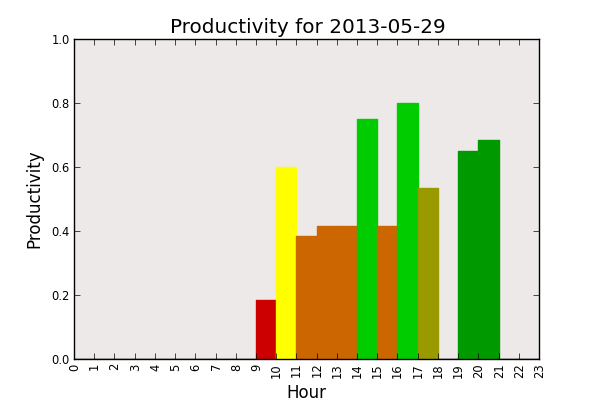
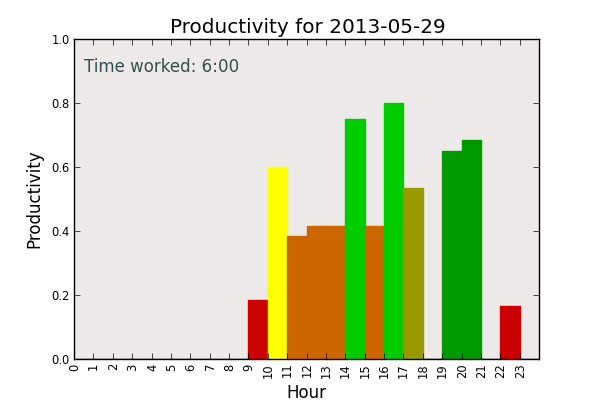
Added the total time worked as an annotation to the chart.

Changed region(s): [[0.18, 0.24, 0.9, 0.96], [0.12, 0.15, 0.42, 0.18]]

diff --git a/pomodoro_daily_chart.py b/pomodoro_daily_chart.py
@@ -59,6 +59,8 @@ colours_to_use = [
     '#33FF33',
 ]
 
+ttl_mins_worked = 0
+
 start_date = datetime.date.today()
 start_date_str = ("%d-%02d-%02d" % (start_date.year, start_date.month, start_date.day, ))
 p = subprocess.Popen([callistevents_prog, '-c', 'Pomodoros', '-s', start_date_str ], stdout=subprocess.PIPE, stderr=subprocess.PIPE)
@@ -79,16 +81,20 @@ for line in lines:
 
             if sta_hr == end_hr:
                 mins = end_mn - sta_mn
+                ttl_mins_worked += mins
                 time_buckets[sta_hr] += float(mins) / 60.0
             else:
                 for h in xrange(sta_hr, end_hr+1):
                     if h == sta_hr:
                         mins = 60.0 - sta_mn
+                        ttl_mins_worked += mins
                         time_buckets[sta_hr] += float(mins) / 60.0
                     elif h == end_hr:
                         mins = end_mn
+                        ttl_mins_worked += mins
                         time_buckets[end_hr] += float(mins) / 60.0
                     else:
+                        ttl_mins_worked += 60
                         time_buckets[h] += 1.0
 
 ## OK, the code following is for generating the plot.
@@ -120,6 +126,10 @@ ax.set_title('Productivity for %s' % (start_date_str, ))
 ax.set_axis_bgcolor('#EEE9E9')
 ax.set_ylim(0, 1.0)
 ax.set_xticks(xrange(0, 24))
+
+hours_worked = int(float(ttl_mins_worked) / 60.0)
+minutes_worked = (ttl_mins_worked % 60)
+ax.text(0.5, 0.9, "Time worked: %d:%02d" % (hours_worked, minutes_worked ), color='#2f4f4f' )
 
 for tick in ax.xaxis.get_major_ticks():
     #tick.label.set_fontsize(14) 
